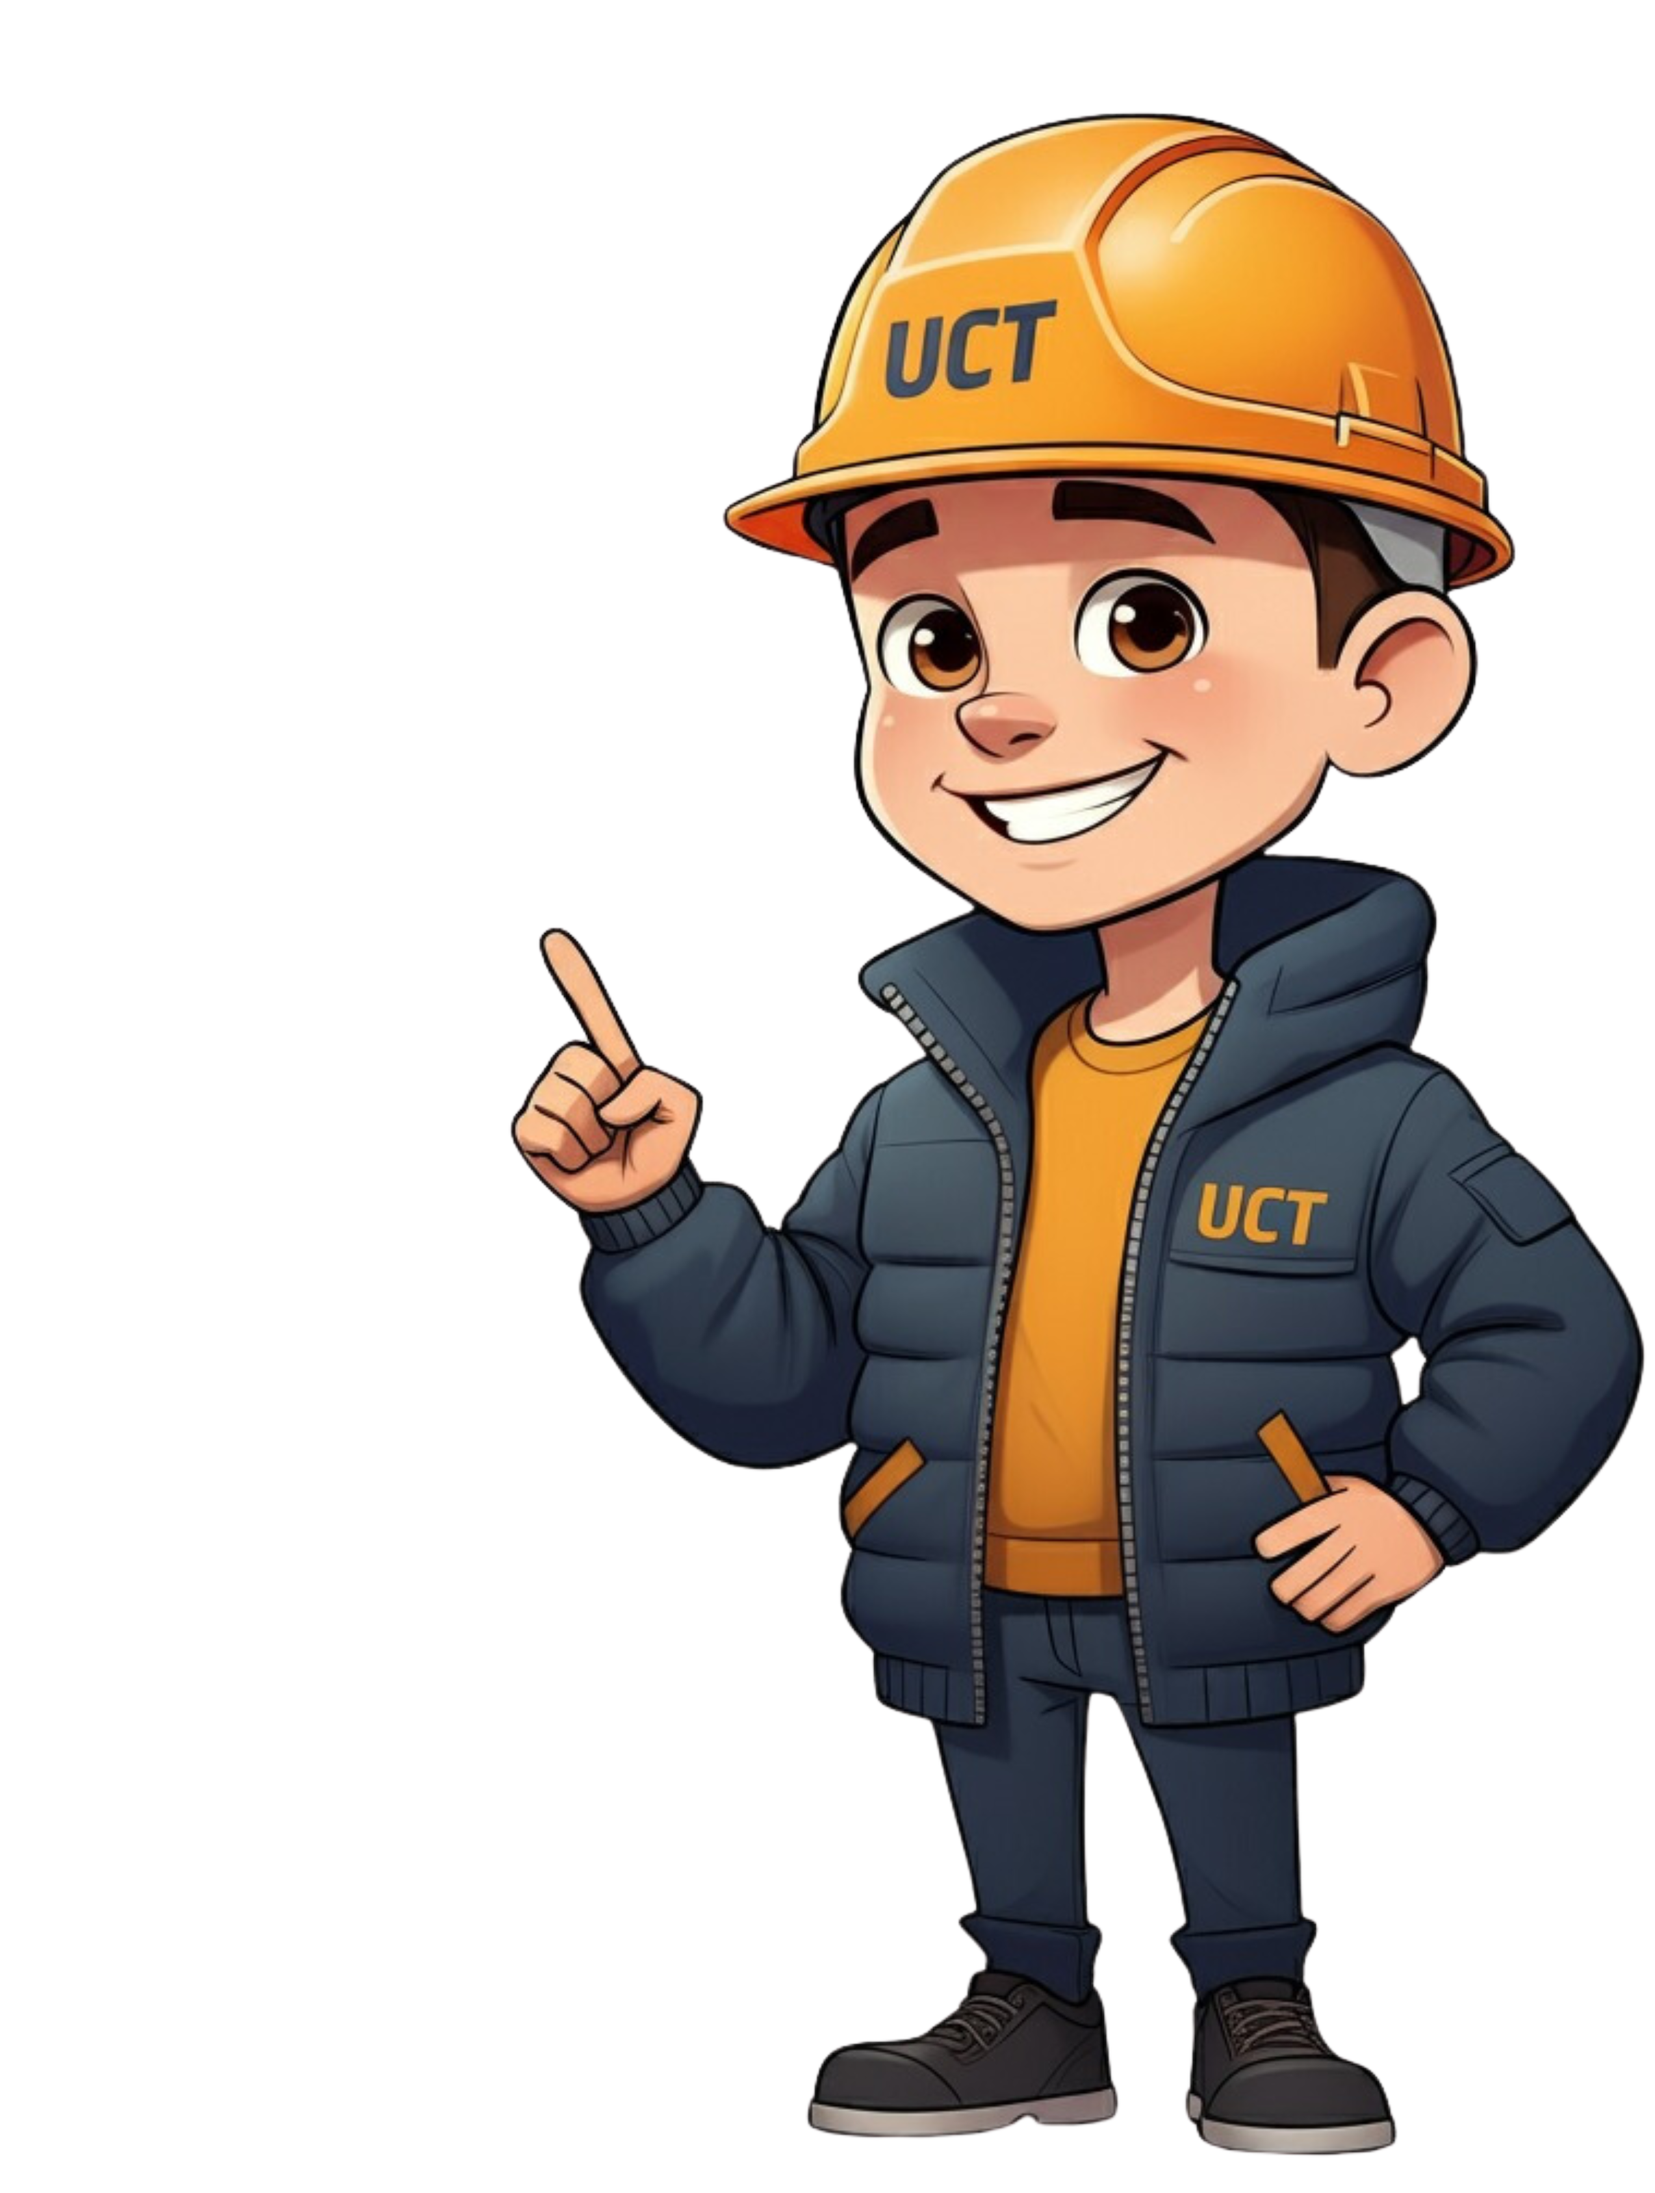
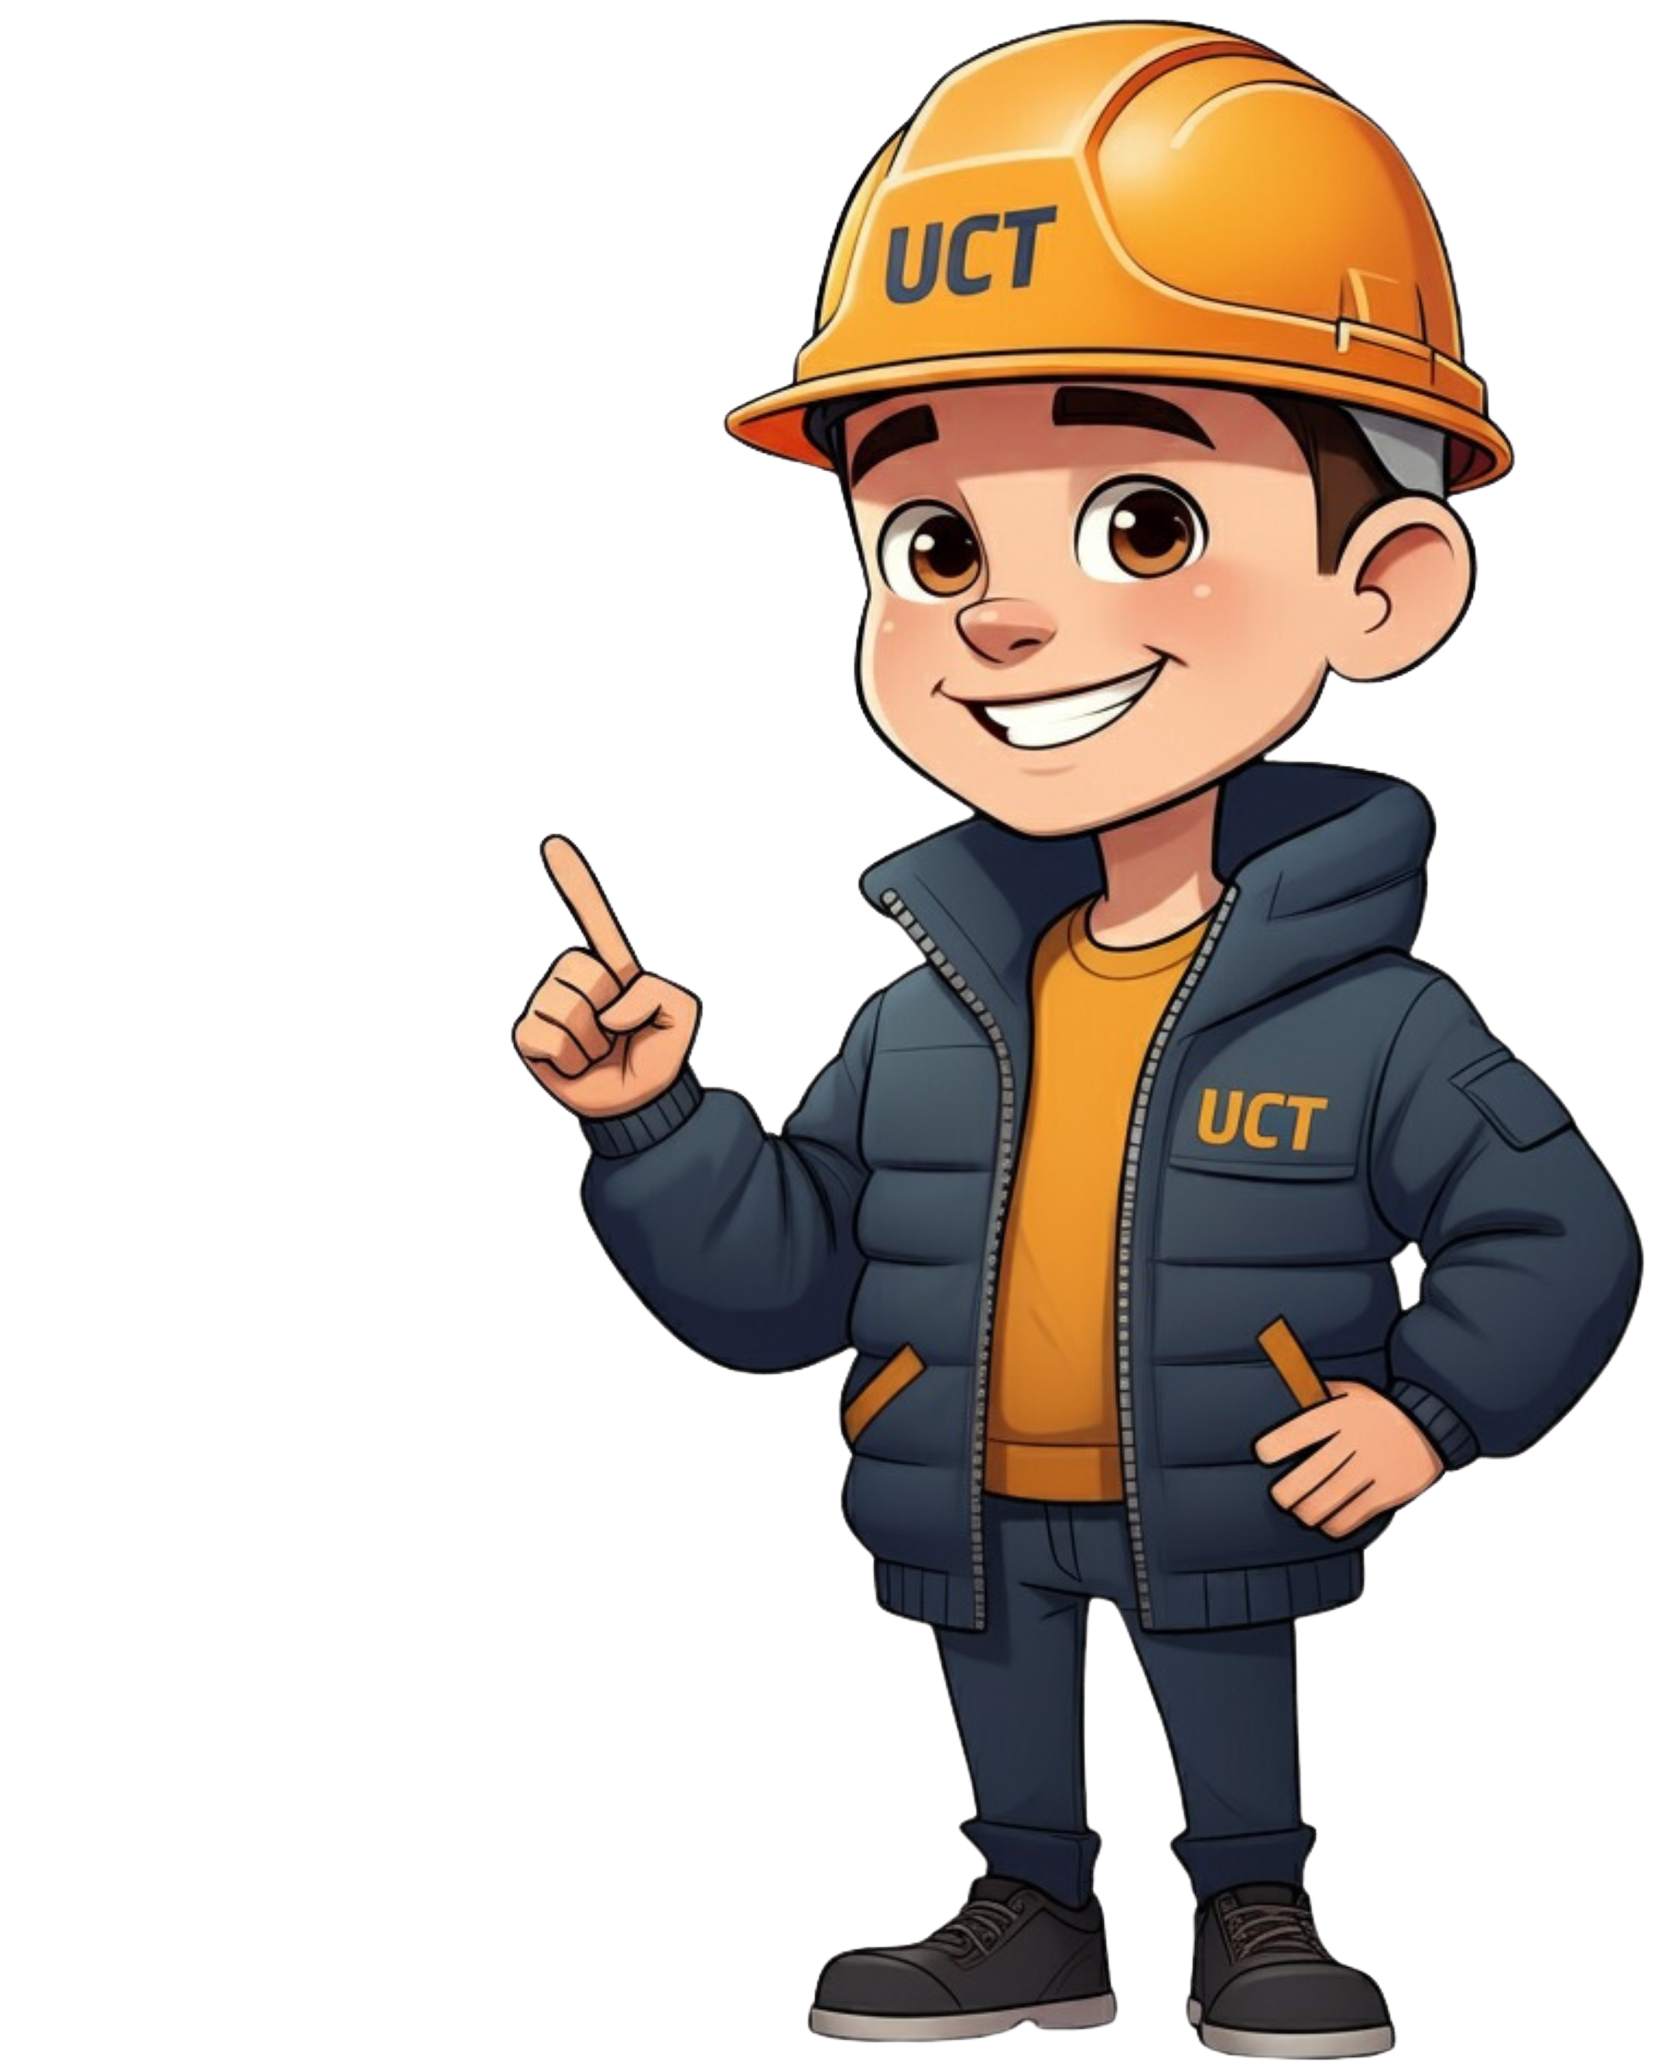
jasjsa2

Changed region(s): [[0.3102, 0.0, 0.9925, 0.7467], [0.4653, 0.7778, 0.8685, 1.0], [0.5893, 0.6534, 0.6824, 0.7467]]

diff --git a/styles.css b/styles.css
@@ -251,8 +251,8 @@ h1, h2, h3, h4 {
             font-family: "Font Awesome 6 Free";
             font-weight: 900;
             position: absolute;
-            left: 15px;
-            top: 15px;
+            left: 8px;
+            top: 27px;
             color: #dfc040;
             font-size: 24px;
         }
@@ -264,7 +264,7 @@ h1, h2, h3, h4 {
 
         .imagen-bienvenida {
             position: fixed;
-            bottom: 20px;
+            bottom: -8px;
             right: 20px;
             z-index: 1000; /* Asegúrate de que esté encima de otros elementos */
         }
